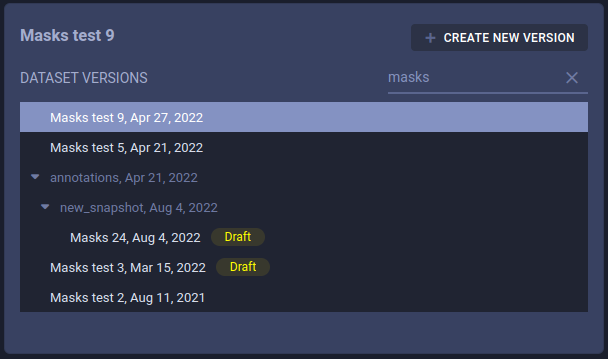
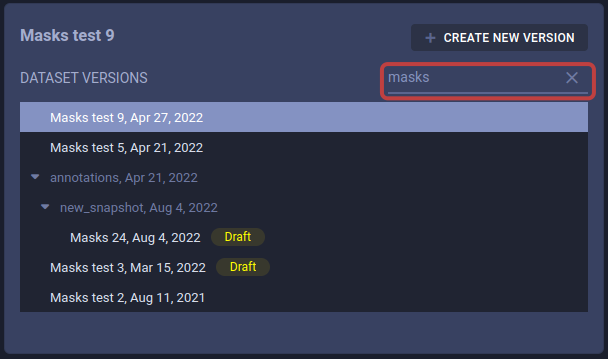
Edit dataset search

Changed region(s): [[0.625, 0.1532, 1.0, 0.3064]]

diff --git a/docs/hyperdatasets/webapp/webapp_datasets_versioning.md b/docs/hyperdatasets/webapp/webapp_datasets_versioning.md
@@ -9,9 +9,10 @@ deleting [Dataset versions](../dataset.md#dataset-versioning).
 The WebApp (UI) presents your dataset version structure in [simple view](#simple-view) or [advanced view](#advanced-view), 
 depending on the structure implemented. 
 
-Use the search bar to find specific versions. You can query by version name or version description. The search returns
-all versions that match the query. If a version matching the query is a child or snapshot version, its parent 
-versions also appear in the results in a muted color.
+Use the search bar to find specific versions. You can query by version name or version description. The search returns 
+all versions that match the query.
+
+In advanced view, parent versions that do not match the query where a child version does appear in a muted color.
 
 ![Dataset version search](../../img/hyperdatasets/hyperdataset_search_2.png)
 
